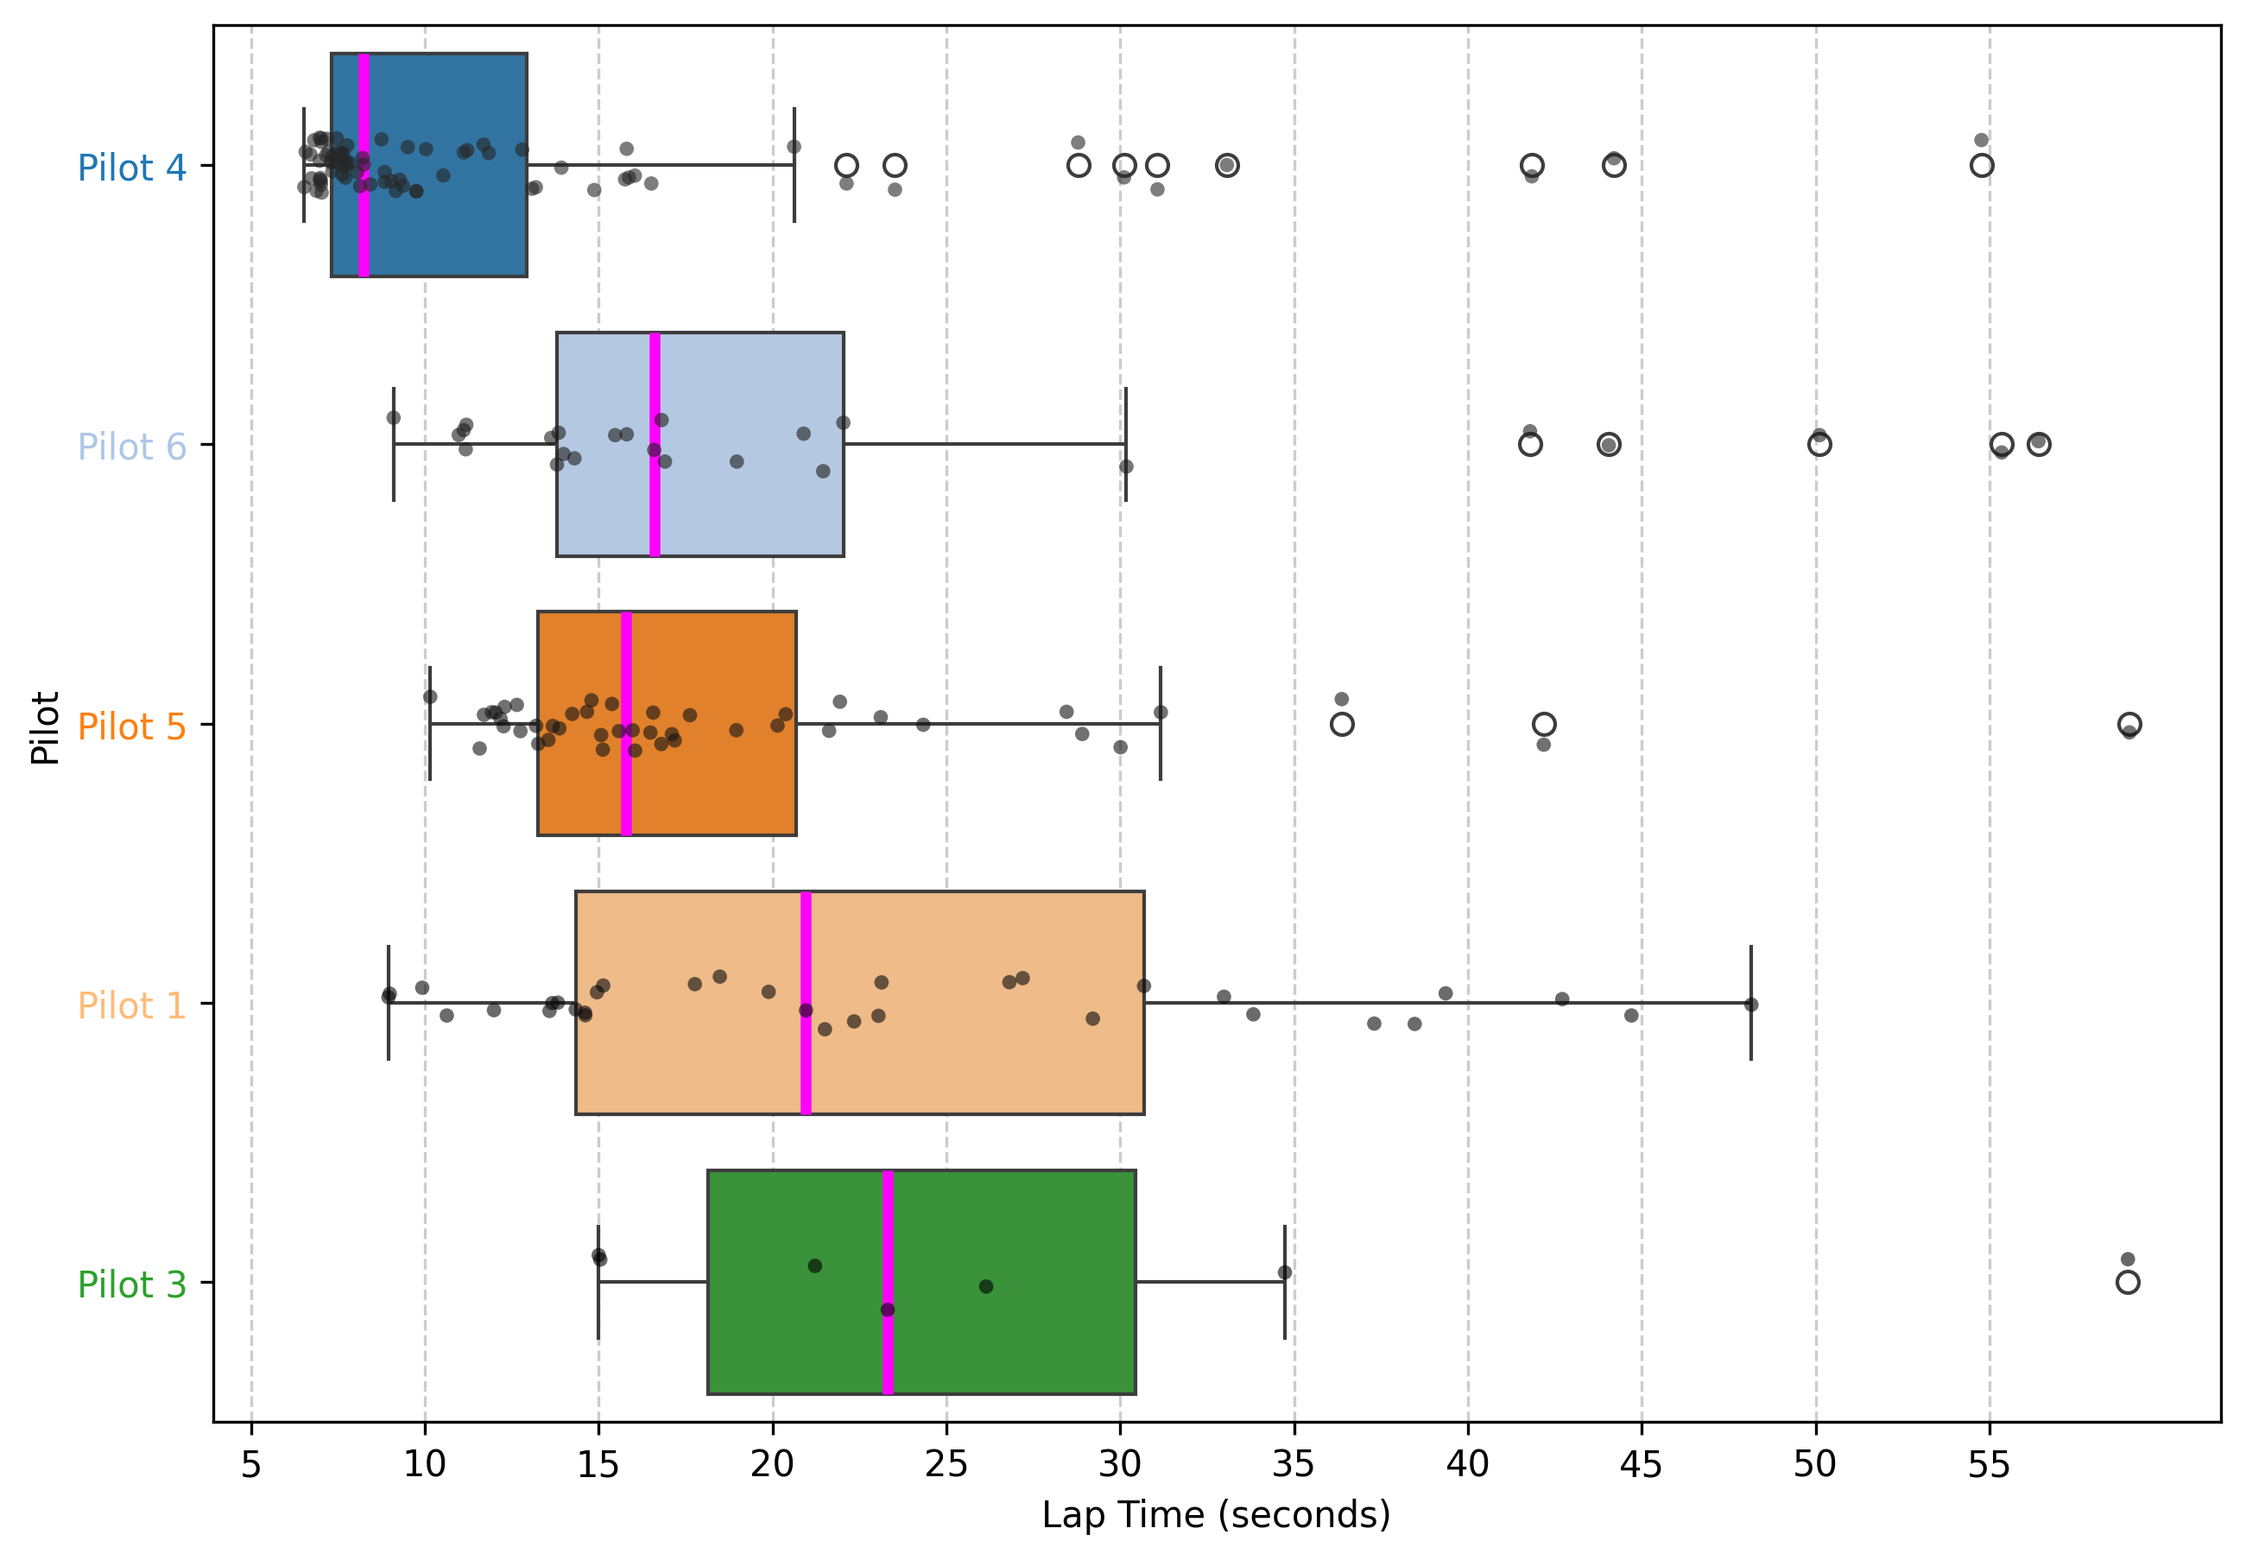
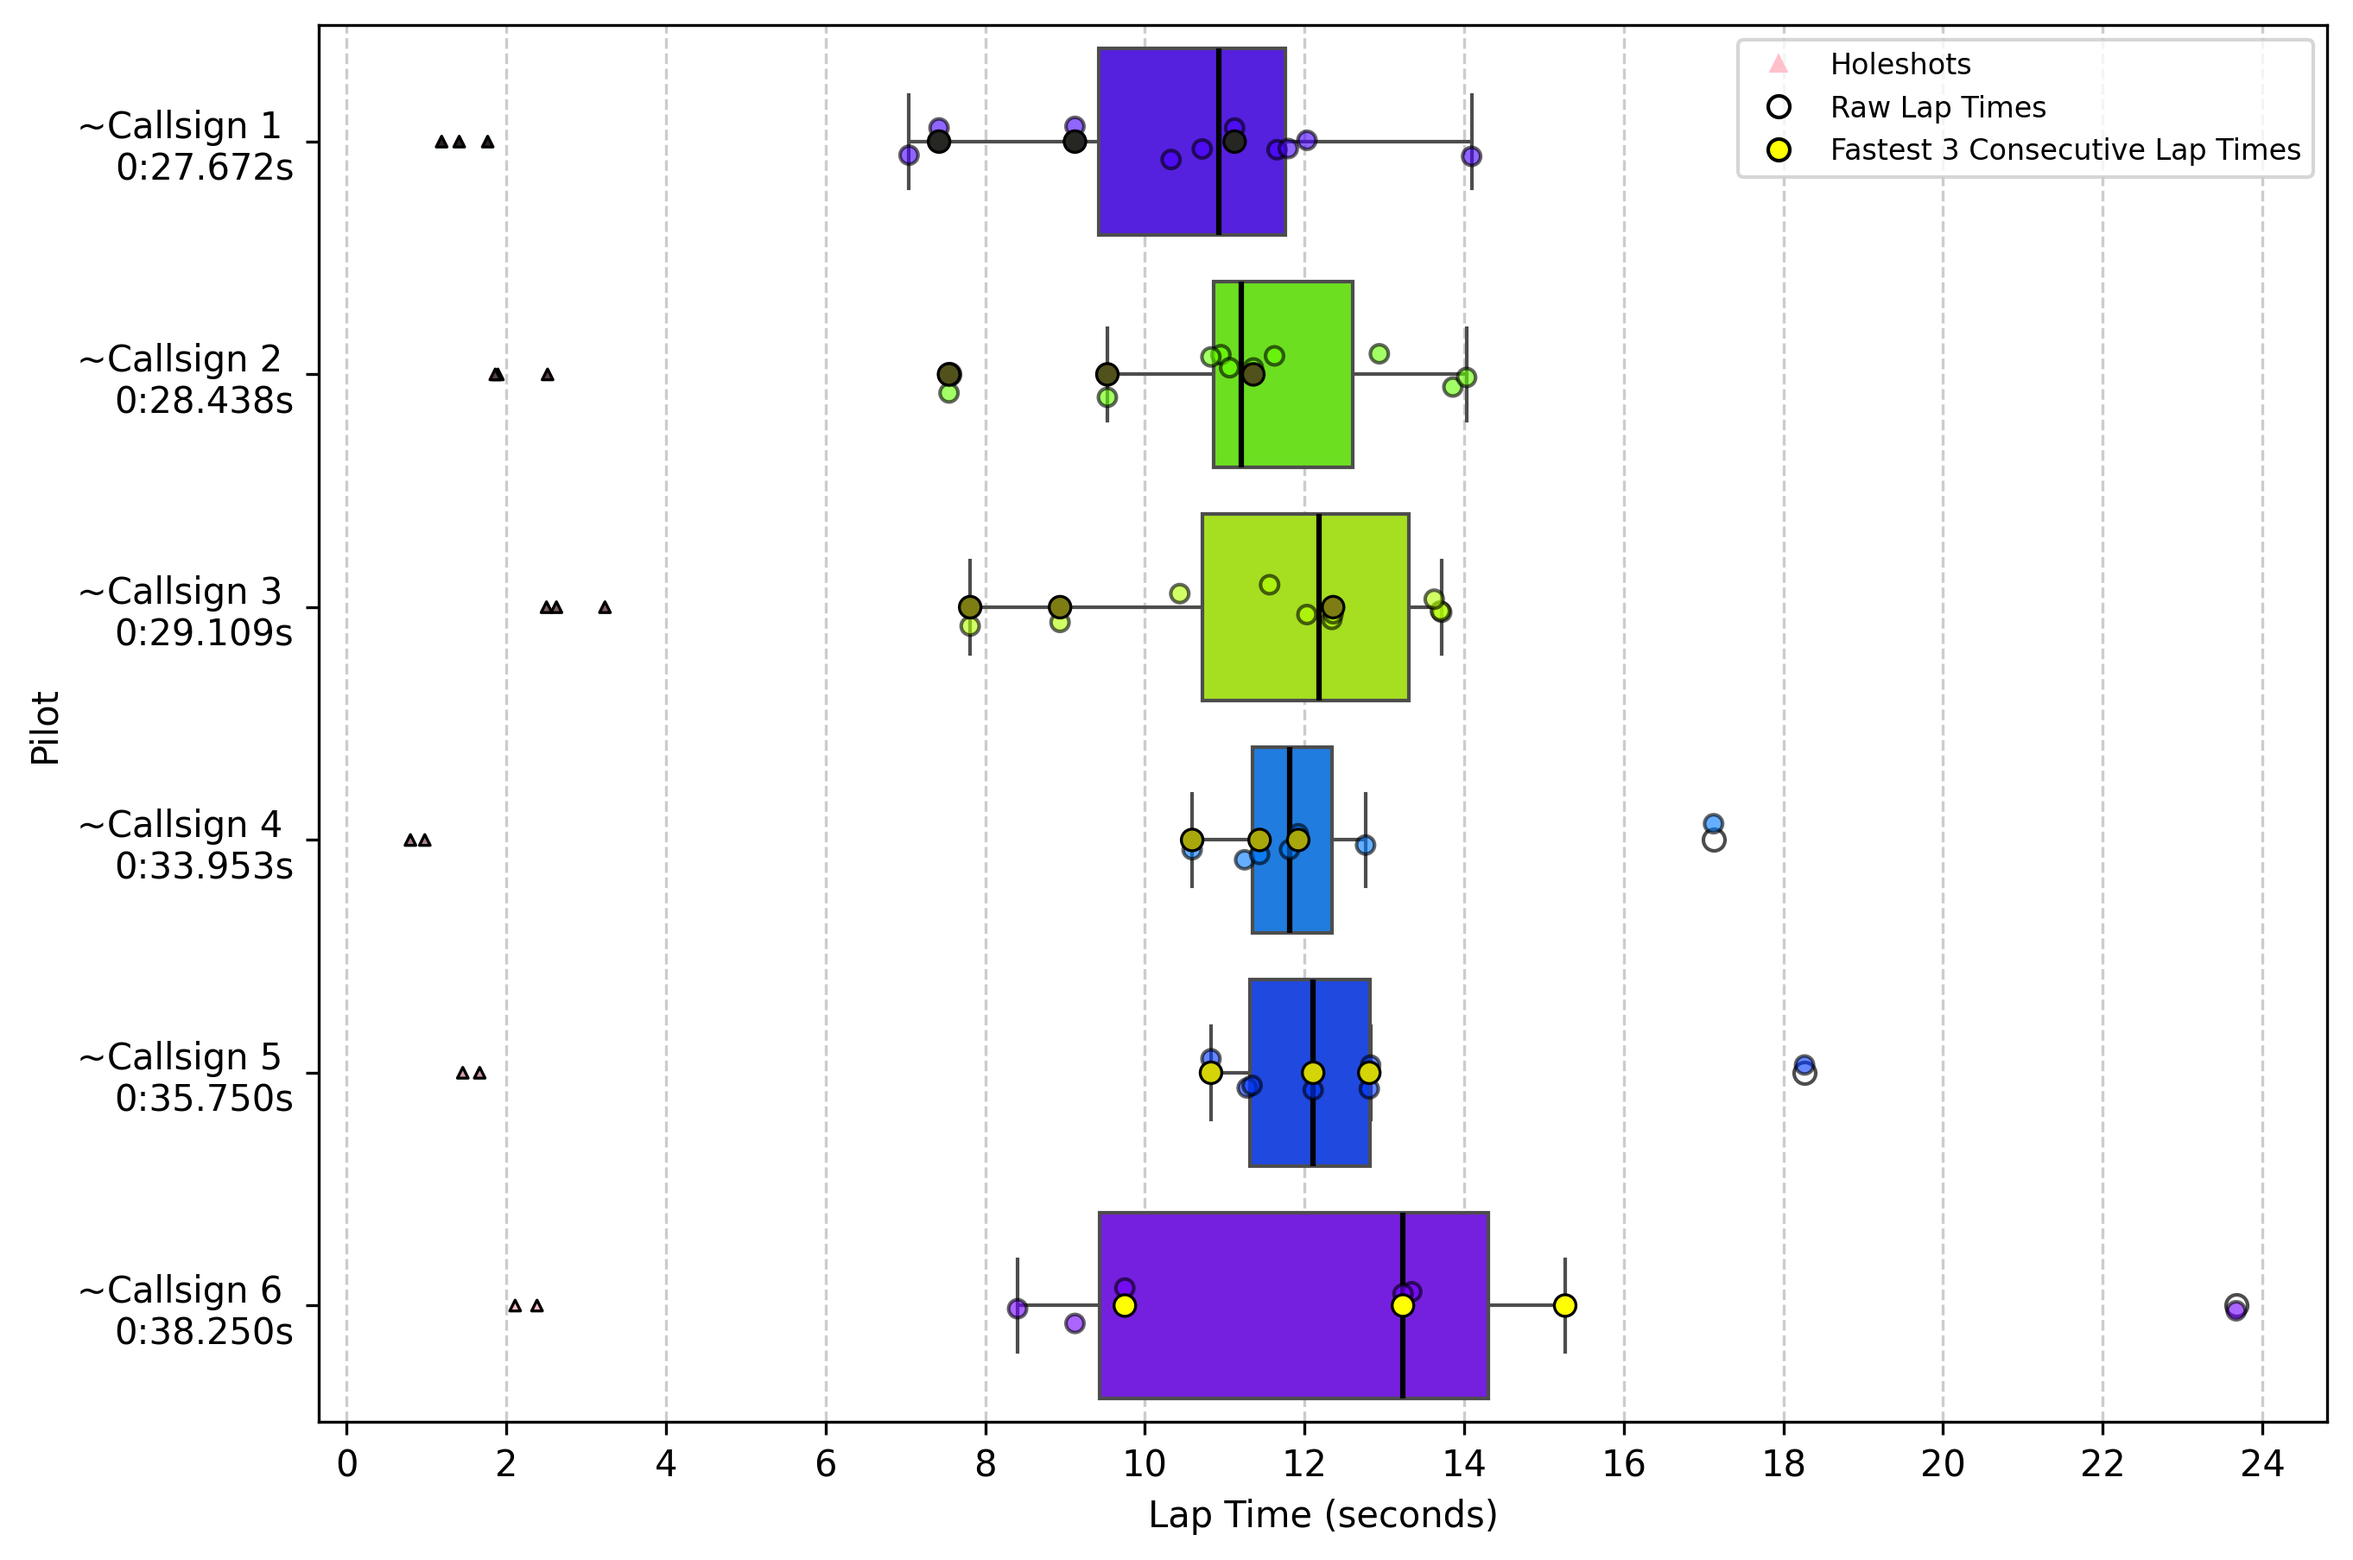
Reworked to be more efficient
Includes plotting qualy times
Includes holeshot stats

diff --git a/__init__.py b/__init__.py
@@ -1,11 +1,14 @@
 import logging
 from eventmanager import Evt
 import matplotlib.pyplot as plt
+import matplotlib.lines as mlines
+import matplotlib.ticker as mticker
 import pandas as pd
 import seaborn as sns
-import itertools
 from flask import templating
 from flask.blueprints import Blueprint
+
+
 
 
 class ResultsPlot:
@@ -22,82 +25,119 @@ class ResultsPlot:
 
         if raceclass_results is not None:
             self.logger.info("rplots - creating plot")
-            #TODO - check what race format and get pilot results order accordingly
-    #            self.logger.info([i['callsign'] for i in raceclass_results['by_consecutives']])
             pilot_race_order = [i['pilot_id'] for i in raceclass_results['by_consecutives']]
-    #            self.logger.info([i['pilot_id'] for i in raceclass_results['by_consecutives']])
-    #            self.logger.info([i['consecutives'] for i in raceclass_results['by_consecutives']])
-    #            self.logger.info([i['consecutives_base'] for i in raceclass_results['by_consecutives']])
-
+            consecutive_time = [i['consecutives'] for i in raceclass_results['by_consecutives']]
+            #consecutive_time_nlaps = [i['consecutives_base'] for i in raceclass_results['by_consecutives']]
+            consecutive_time_round = [i['consecutives_source']['heat'] for i in raceclass_results['by_consecutives']]
+            consecutive_time_lap_start = [i['consecutive_lap_start'] for i in raceclass_results['by_consecutives']]
+            # self.logger.info(consecutive_time_round)
+            # self.logger.info(consecutive_time_lap_start)
             pilots = self._rhapi.db.pilots
-
+            #Create pilot information lists
             pilot_ids = []
             pilot_names = []
             pilot_colours = []
+
             for i in range(len(pilots)):
                 pilot_ids.append(pilots[i].id)
                 pilot_names.append(pilots[i].callsign)
                 pilot_colours.append(pilots[i].color)
+
             races = self._rhapi.db.pilotruns
 
+            #Create list of pilot runs for each pilot
             pilot_list = []
             for i in range(len(pilots)):
                 pilot_list.append([])
-
             for r in range(len(races)):
                 if races[r].pilot_id != 0:
                     pilot_list[pilot_ids.index(races[r].pilot_id)].append(races[r].id)
 
-            pilot_lap_times = []
-            for i in range(len(pilots)):
-                pilot_lap_times.append([])
-
+            results_df=pd.DataFrame(columns=["Pilot","Lap Time", "Round", "Lap", "Best Q"])
             for i in range(len(pilot_list)):
-                for j in range(len(pilot_list[i])):
+                for j,jj in enumerate(pilot_list[i]):
                     laps = self._rhapi.db.laps_by_pilotrun(pilot_list[i][j])
+                    heats = [lap.race_id for lap in laps]
+                    this_pilot = laps[0].pilot_id
+                    #remove deleted laps
                     temp_laps = [lap.lap_time_formatted for lap in laps if lap.deleted == 0]
+                    #ignore the first lap time = holeshot and reformat string into seconds
                     for k in range(len(temp_laps)):
-                        if k != 0:
-                            times_in_seconds = (float(temp_laps[k].split(":")[0] * 60) +
-                                                float(temp_laps[k].split(":")[1]))
-                            pilot_lap_times[i].append(times_in_seconds)
+                        time_in_seconds = (float(temp_laps[k].split(":")[0] * 60) +
+                                            float(temp_laps[k].split(":")[1]))
+                        if heats[0] == consecutive_time_round[i]:
+                            if k >= consecutive_time_lap_start[i] and k < (consecutive_time_lap_start[i] + 3):
+                                qlap = int(1)
+                            else:
+                                qlap = int(0)
+                        else:
+                            qlap=int(0)
+                        results_df.loc[len(results_df)]={"Pilot" : str(this_pilot),"Lap Time" :time_in_seconds,
+                                                         "Round" : int(j),
+                                                         "Lap": int(k),
+                                                         "Best Q":qlap}
+            #self.logger.info(results_df)
 
-            re_order_pilot_lap_times = []
-            re_order_pilot_names = []
-            re_order_pilot_colour = []
-            for i in pilot_race_order:
-                re_order_pilot_lap_times.append(pilot_lap_times[pilot_ids.index(i)])
-                re_order_pilot_colour.append(
-                    [pilot_colours[pilot_ids.index(i)] for j in range(len(pilot_lap_times[pilot_ids.index(i)]))])
-                re_order_pilot_names.append(
-                    [pilot_names[pilot_ids.index(i)] for j in range(len(pilot_lap_times[pilot_ids.index(i)]))])
-
-            data_list = {"Pilot": list(itertools.chain(*re_order_pilot_names)),
-                         "Lap Time": list(itertools.chain(*re_order_pilot_lap_times))}
-            df = pd.DataFrame.from_dict(data_list)
+            #self.logger.info(pilot_colours)
+            results_df['Pilot'] = results_df['Pilot'].astype(str)
             fig, ax = plt.subplots(figsize=(10, 7))
-            color_map = dict(zip(pilot_names, pilot_colours))
 
-            medianprops = {
-                "color": "fuchsia",
-                "linewidth": 3,
-                "linestyle": "-"
-            }
-            sns.boxplot(data=df, x="Lap Time", y="Pilot", hue="Pilot", palette=color_map, orient="h", ax=ax,
-                        legend=False,
-                        medianprops=medianprops)
-            sns.stripplot(data=df, x="Lap Time", y="Pilot", hue="Pilot", palette='dark:Black',
-                          ax=ax, size=4, jitter=True,
+            medianprops = dict(color="black",linewidth=1.5)
+            #Box Plot
+            sns.boxplot(data=results_df[results_df["Lap"] > 0], x="Lap Time", y="Pilot", hue="Pilot",palette=pilot_colours,
+                          orient="h", ax=ax,
+                          legend=False,
+                          medianprops=medianprops,
+                          order=pilot_race_order)
+            #Raw Data
+            sns.stripplot(data=results_df[results_df["Lap"] > 0], x="Lap Time", y="Pilot", hue="Pilot",palette=pilot_colours,
+                          ax=ax, size=5, jitter=True,
+                          linewidth = 1,
+                          edgecolor="black",
                           alpha=0.6,
+                          legend=False,
+                          dodge=False,
+                          order=pilot_race_order)
+            #Qualifying Laps
+            sns.stripplot(data=results_df[results_df["Best Q"] == 1], x="Lap Time", y="Pilot", hue="Pilot",
+                          jitter=False, size=6, alpha=1, linewidth=0.8, palette='dark:#FFFF00', edgecolor="black",
+                          ax=ax,
+                          legend=False,
+                          dodge=False,
+                          order=pilot_race_order)
+            #Hole Shots
+            sns.stripplot(data=results_df[results_df["Lap"] == 0], x="Lap Time", y="Pilot", hue="Pilot",
+                          jitter=False, size=3, alpha=1, linewidth=0.8, palette='dark:pink', edgecolor="black",
+                          marker="^",
+                          ax=ax,
+                          legend=False,
                           dodge=False)
+
             ax.set_xlabel('Lap Time (seconds)', color="black")
-            for label, name in zip(ax.get_yticklabels(), df["Pilot"].unique()):
-                label.set_color(color_map[name])
-            min_x, max_x = df["Lap Time"].min(), df["Lap Time"].max()
-            ax.set_xticks(range(int(min_x // 5) * 5, int(max_x // 5) * 5 + 5, 5))  # Ticks every 5 seconds
+            ax.set_yticks(range(len(results_df['Pilot'].unique())))
+            ylabels=[]
+            for i in range(len(ax.get_yticks())):
+                ylabels.append(f"{pilot_names[pilot_ids.index(pilot_race_order[i])]} \n"
+                               f"{consecutive_time[i]}s")
+            ax.set_yticklabels(ylabels)
+            # ticks_loc = ax.get_yticks().tolist()
+            # ax.yaxis.set_major_locator(mticker.FixedLocator(ticks_loc))
+
+            strip_legend1 = mlines.Line2D([], [], color="none", mec="black", marker="o", linestyle="None",
+                                          markersize=6, label="Raw Lap Times")
+            strip_legend2 = mlines.Line2D([], [], color="#FFFF00", marker="o", linestyle="None", mec="black",
+                                          markersize=6, label="Fastest 3 Consecutive Lap Times")
+            strip_legend3 = mlines.Line2D([], [], color="pink", marker="^", linestyle="None",
+                                          markersize=4, label="Holeshots")
+            plt.legend(handles=[strip_legend3,strip_legend1,strip_legend2], loc="upper right", fontsize=8, frameon=True)
+
+
+            min_x, max_x = results_df["Lap Time"].min(), results_df["Lap Time"].max()
+            increment=2
+            ax.set_xticks(range(int(min_x // increment) * increment, int(max_x // increment) * increment + (2*increment), increment))  # Ticks every increment
             ax.xaxis.grid(True, linestyle='--', alpha=0.4, color="gray")
             plt.savefig("plugins/rh_rplots/static/boxplot.png", dpi=300, bbox_inches='tight')
-    #            plt.show()
+
             self.logger.info("Plot Done")
         else:
             self.logger.info("No results to plot")
@@ -106,6 +146,7 @@ class ResultsPlot:
 def initialize(rhapi):
     results_plot = ResultsPlot(rhapi)
     rhapi.events.on(Evt.STARTUP, results_plot.init_plugin)
+    rhapi.events.on(Evt.STARTUP, results_plot.update_plot)
     rhapi.events.on(Evt.LAPS_SAVE, results_plot.update_plot)
     rhapi.events.on(Evt.LAPS_RESAVE, results_plot.update_plot)
     rhapi.ui.register_panel("Lap Time Stats", "Lap Time Stats", "format")
@@ -125,3 +166,4 @@ def initialize(rhapi):
                                           getOption=rhapi.db.option, __=rhapi.__)
     rhapi.ui.blueprint_add(bp)
     rhapi.ui.register_markdown("Lap Time Stats", "Results Plot", "Plots available [here](/results_plot)")
+
